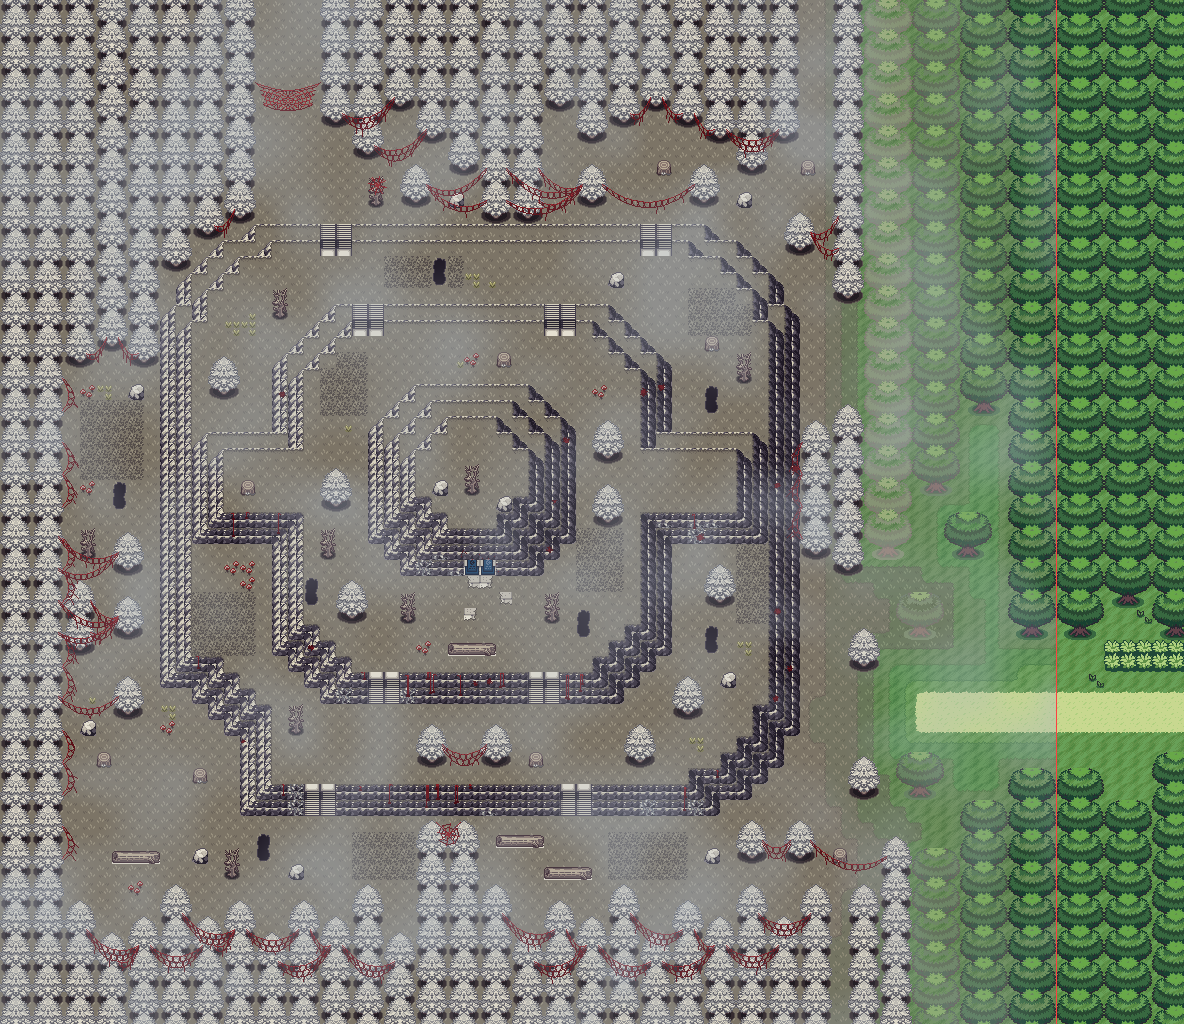
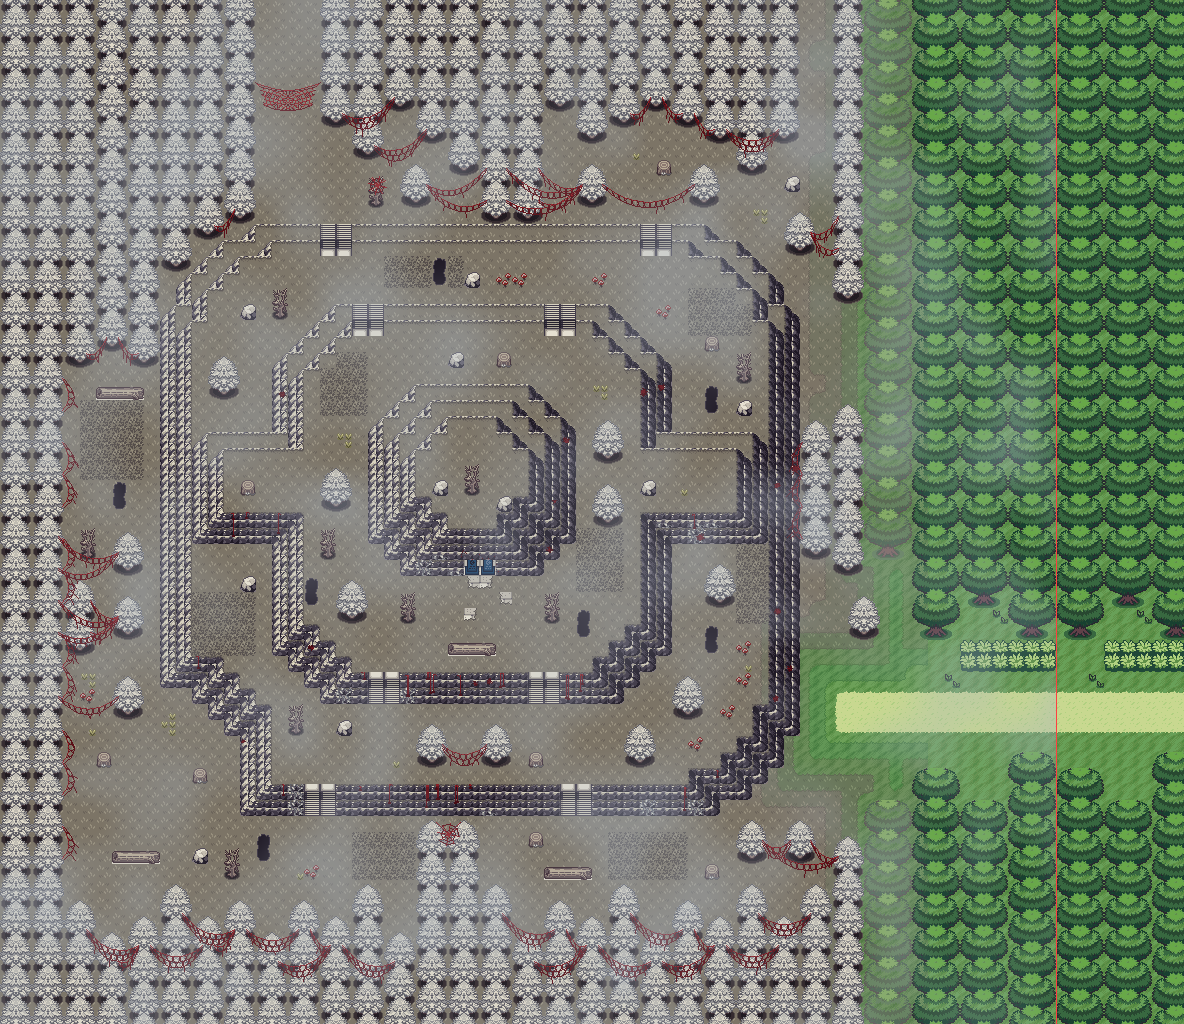
Hollow Hill composer: Route 11's own seam columns, layers for the build
Columns 58-65 are Route 11's columns 1-8 (its metatiles; its woods' pattern carried up
above its top), so the connection shows the same metatiles from both sides; the first
column of that woods stays untinted so no tree is split. layers() gives the under
layer (ground, cliffs, blood) and the over layer (crowns, webs) for the tileset build.

Claude-Session: https://claude.ai/code/session_01FHXnfqnedTHLf5QFbB3MCU

diff --git a/tools/art/hollowhill/hh_mock.py b/tools/art/hollowhill/hh_mock.py
@@ -29,6 +29,19 @@ from kit import RL
 W, H = 66, 64
 OFF = 24                        # Route 11 row = Hollow Hill row - OFF
 ROAD = 19 + OFF                 # the track's three rows (Route 11's road rows 19-21)
+SEAM = 58                       # columns 58-65 are Route 11's own (its columns 1-8, its metatiles): a connected map is
+                                # drawn with the tilesets of the map the player stands in, so the columns each map shows
+                                # of the other are the same metatiles on both sides (as Route 11 does with Pelluca)
+
+def r11_cell(x, y):
+    """Route 11's block (metatile | collision) for one of the seam's cells: its column x - 57, its row y - OFF (above
+    its top, its woods' two-row pattern carried up)."""
+    import struct
+    if not hasattr(r11_cell, 'v'):
+        d = open(os.path.join(RL.C if hasattr(RL, 'C') else '/home/claude/repo/codebase', 'data/layouts/Route11/map.bin'), 'rb').read()
+        r11_cell.v = struct.unpack('<%dH' % (90 * 40), d)
+    ry = y - OFF if y >= OFF else y % 2
+    return r11_cell.v[ry * 90 + (x - 57)]
 
 # ------------------------------------------------------------------ pieces
 def ody_raw(m): return kit.atlas('ody_0_97')['full'][m]
@@ -148,6 +161,13 @@ def face_piece(E, x, y):
     return None
 
 # ------------------------------------------------------------------ the map
+_r11ts = {}
+def r11_img(m):
+    if m not in _r11ts:
+        if 'ts' not in _r11ts: _r11ts['ts'] = RL.TS('LAYOUT_ROUTE11')
+        _r11ts[m] = np.asarray(_r11ts['ts'].metatile(m), np.uint8)
+    return _r11ts[m].copy()
+
 class Map:
     def __init__(self):
         self.field = None
@@ -158,6 +178,8 @@ class Map:
         self.used = np.full((H, W), None, object)
         self.units = []                                    # the pines of the woods' columns: (x0, top row)
         self.ground = [[None] * W for _ in range(H)]       # an RGB image replacing the grass, or None
+        self.seam = {(x, y): r11_cell(x, y) for y in range(H) for x in range(SEAM, W)}
+        for (x, y) in self.seam: self.used[y, x] = 'seam'
         for y in range(H):
             for x in range(W):
                 p = face_piece(self.E, x, y)
@@ -180,6 +202,7 @@ class Map:
         return True
 
     def cell(self, x, y):
+        if (x, y) in self.seam: return r11_img(self.seam[x, y] & 0x3FF)
         if (x, y) in self.face:
             v = self.face[x, y]; img = ody(abs(v)).copy()
             if v < 0: img = img[::-1].copy()              # (negative: drawn upside down, stairs on a north edge)
@@ -208,9 +231,9 @@ def shade_field(seed=11):
         return (a * (1 - fx) + b * fx) * (1 - fy) + (c * (1 - fx) + d * fx) * fy
     n = noise(6) * 0.6 + noise(3) * 0.4 - 0.5
     x = np.arange(W + 1)[None, :].astype(float)
-    s = np.interp(x, [0, 50, 52, 54, 56, 58, 60, 62, 64, 66], [5, 5, 4.5, 3.8, 3, 2.2, 1.4, 0.7, 0, 0]) + n * 3 * np.interp(x, [0, 50, 53, 61, 64], [0, 0, 1, 1, 0])
+    s = np.interp(x, [0, 49, 51, 53, 54, 55, 56, 57, 58, 66], [5, 5, 4.4, 3.6, 3, 2.2, 1.4, 0.6, 0, 0]) + n * 2.4 * np.interp(x, [0, 49, 51, 55, 57], [0, 0, 1, 1, 0])
     v = np.clip(np.rint(s), 0, TOP).astype(int); v = np.broadcast_to(v, (H + 1, W + 1)).copy()
-    v[:, 64:] = 0; v[:, :51] = TOP
+    v[:, 57:] = 0; v[:, :50] = TOP
     for _ in range(8):
         bad = False
         for yy in range(H):
@@ -288,11 +311,11 @@ def crown_woods(M, cols, kind, t=0.0, k=None):
         for y in range(yt, yb + 1):
             for k in range(3):
                 x = x0 + k
-                if not 0 <= x < W: continue
+                if not 0 <= x < SEAM: continue
                 v = CROWN_WOODS_N(yb, y, k) if kind == 'north' else CROWN_WOODS_S(yt, y, k)
                 M.lay(x, y, 'c325', v, 'woods', top=kind == 'south' and y == yt)
                 if t: o = M.over[y][x][-1][0]; o[..., :3] = tint(o[..., :3], t)
-        flatten(M, x0, yt, 3, yb - yt + 1, k if k is not None else min(1, int(M.field[yt:yb + 2, x0:x0 + 4].min())))
+        flatten(M, x0, yt, min(3, SEAM - x0), yb - yt + 1, k if k is not None else min(1, int(M.field[yt:yb + 2, x0:x0 + 4].min())))
 
 def broad(M, x, y):
     assert M.free(x, y, 3, 3), ('broad', x, y)
@@ -411,19 +434,19 @@ def compose(seed=5):
     for (x, y), v in list(M.face.items()):
         if v == 0x2f1 and rng.random() < 0.12: M.face[x, y] = int(rng.choice([0x2df, 0x2e7]))
     # --- Route 11's dirt track carries on from the east edge and ends in the woods floor
-    for x in range(57, W):
-        for dy, v in enumerate((0x2c0, 0x2c8, 0x2d0) if x == 57 else (0x2c1, 0x7e, 0x2d1)):
+    for x in range(52, SEAM):
+        for dy, v in enumerate((0x2c0, 0x2c8, 0x2d0) if x == 52 else (0x2c1, 0x7e, 0x2d1)):
             M.lay(x, ROAD + dy, 'c31', v, 'road')
-    flatten(M, 57, ROAD, W - 57, 3, 0)
+    flatten(M, 52, ROAD, SEAM - 52, 3, 0)
     # --- the woods round the edge
     # east: Route 11's own woods (Crown's), as its west end has them (its rows shifted by OFF), then, westward,
     # Crown's woods and Odyssey's pines mixing before the pines take over
-    crown_woods(M, [(63, 0, 15 + OFF)], 'north'); crown_woods(M, [(63, 24 + OFF, H - 1)], 'south')
-    crown_woods(M, [(60, 0, 25)], 'north', 0.2); crown_woods(M, [(60, 50, H - 1)], 'south', 0.2)
-    crown_woods(M, [(57, 0, 30)], 'north', 0.4); crown_woods(M, [(57, 53, H - 1)], 'south', 0.4)
-    crown_woods(M, [(54, 0, 34)], 'north', 0.6, k=2)
+    # (column 57 is the first column of Route 11's own westmost woods, the rest of it in the seam: untinted, its
+    # rows as Route 11 has them, so the trees are whole)
+    crown_woods(M, [(57, 0, 15 + OFF)], 'north'); crown_woods(M, [(57, 24 + OFF, H - 1)], 'south')
+    crown_woods(M, [(54, 0, 34)], 'north', 0.35, k=1); crown_woods(M, [(54, 50, H - 1)], 'south', 0.35, k=1)
     pine_column(M, 52, 0, 18, 'north')
-    for x0, yt in ((55, 52), (53, 55), (50, 55)): pine_column(M, x0, yt, H - 1, 'south')
+    for x0, yt in ((52, 52), (50, 55)): pine_column(M, x0, yt, H - 1, 'south')
     # west: two columns of Odyssey's pines the whole height
     pine_column(M, 0, 0, H - 1, 'wall'); pine_column(M, 2, 0, H - 1, 'wall')
     # north: pines hanging from the top, the gap for the way north to Mirroh (columns 16-19)
@@ -451,12 +474,12 @@ def compose(seed=5):
     for x, y, v in ((29, 36, 0x308), (30, 36, 0x30a), (29, 38, 0x30a), (31, 37, 0x308)):
         M.lay(x, y, 'ody', v, 'soft:slab')
     # --- the east, between Route 11's woods and the haunted floor: a Crown broadleaf, then Odyssey's pines
-    near(M, broad, 3, [(56, 37), (59, 49), (61, 30)])
+    near(M, broad, 3, [(53, 37)]) if False else None
     # the knoll's top: one dead tree, rocks (out of reach until late in the game)
     thing(M, 29, 29, [[0x2a0], [0x2a8]], 'thing:dead'); thing(M, 27, 30, 0x2fe, 'thing:rock'); thing(M, 31, 31, 0x2fe, 'thing:rock')
     # --- trees, dead trees, stumps, logs, rocks, mushrooms, weeds: scattered, never cut, stacked or touching a cliff,
     # and never closing the way between the key spots
-    near(M, pine, 2, [(53, 39), (54, 48), (50, 16)])    # Odyssey's pines in the mixed band
+    near(M, pine, 2, [(51, 39), (52, 48), (50, 16)])    # Odyssey's pines in the mixed band
 
     # tall grass (the wild Pokemon's): Odyssey's dark tufts, in patches
     for x0, y0, x1, y1 in ((5, 25, 8, 29), (12, 37, 15, 40), (38, 52, 42, 54), (22, 52, 26, 54), (43, 18, 46, 20),
@@ -686,18 +709,52 @@ def hang_webs(M, img, seed=4):
     # a round web where the two woods columns close the way south meet (in the V between their crowns)
     orb(layer, (28 * 16, 52 * 16 + 2), 11, [(27 * 16 + 4, 51 * 16 + 6), (28 * 16 + 12, 51 * 16 + 6)], rng)
     # a clump on ring 2: two pines and the stump between them
-    out = Image.fromarray(img).convert('RGBA'); out.alpha_composite(Image.fromarray(layer))
+    out = Image.fromarray(layer)
     for gx, w, row in NETS:
         net = Image.open(os.path.join(HERE, '..', '..', '..', 'assets', 'monomyth_reference', 'pieces', 'web_net.png')).convert('RGBA')
         a = np.array(net); m = a[..., 3] > 0
         light = (a[..., :3] == (240, 240, 248)).all(-1)
         a[m & light, :3] = WEB_LIGHT; a[m & ~light, :3] = WEB_DARK
         out.alpha_composite(Image.fromarray(a), (gx * 16 + (w * 16 - a.shape[1]) // 2, row * 16 + 2))
-    return np.array(out.convert('RGB'))
+    return np.array(out)                                   # (RGBA: the webs, drawn over everything, walked under)
+
+def layers(M):
+    """The whole map as the game draws it: under (the ground, cliffs, everything the player stands in front of, the
+    blood) and over (tree crowns, the webs: drawn over the player), with the over layer's mask. Seam cells left black."""
+    U = np.zeros((H * 16, W * 16, 3), np.uint8); O = np.zeros_like(U); OM = np.zeros((H * 16, W * 16), bool)
+    for y in range(H):
+        for x in range(W):
+            if (x, y) in M.seam: continue
+            c = M.cell.__func__(M, x, y) if False else None
+            if (x, y) in M.face:
+                v = M.face[x, y]; img = ody(abs(v)).copy()
+                if v < 0: img = img[::-1].copy()
+            elif M.ground[y][x] is not None: img = M.ground[y][x].copy()
+            else:
+                f = M.field; img = ground_cell((f[y, x], f[y, x + 1], f[y + 1, x], f[y + 1, x + 1]))
+            ov = np.zeros_like(img); om = np.zeros((16, 16), bool)
+            for o, top in M.over[y][x]:
+                m = o[..., 3] > 0
+                if top: ov[m] = o[..., :3][m]; om |= m
+                else: img[m] = o[..., :3][m]
+            U[y * 16:y * 16 + 16, x * 16:x * 16 + 16] = img
+            O[y * 16:y * 16 + 16, x * 16:x * 16 + 16] = ov; OM[y * 16:y * 16 + 16, x * 16:x * 16 + 16] = om
+    U = blood(M, U)
+    webs = hang_webs(M, U)
+    wm = webs[..., 3] > 0
+    for y in range(H):                                     # (no web over the seam: Route 11's own cells)
+        for x in range(SEAM, W): wm[y * 16:y * 16 + 16, x * 16:x * 16 + 16] = False
+    O[wm] = webs[..., :3][wm]; OM |= wm
+    return U, O, OM
+
+def flat(M, U, O, OM):
+    img = U.copy(); img[OM] = O[OM]
+    for (x, y), v in M.seam.items(): img[y * 16:y * 16 + 16, x * 16:x * 16 + 16] = r11_img(v & 0x3FF)
+    return img
 
 def main(outdir):
     os.makedirs(outdir, exist_ok=True)
-    M = compose(); img = hang_webs(M, blood(M, M.render()))
+    M = compose(); img = flat(M, *layers(M))
     strip = route11_strip()
     strip[:, :1] = (255, 64, 64)                       # the seam (Route 11 to the right)
     full = np.concatenate([img, strip], 1)
